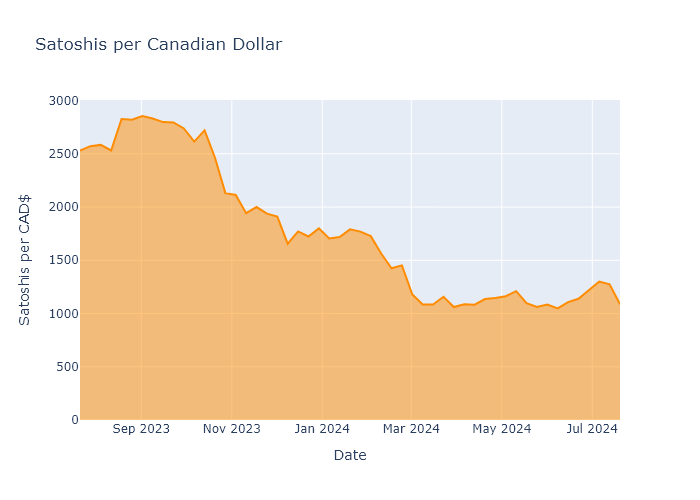
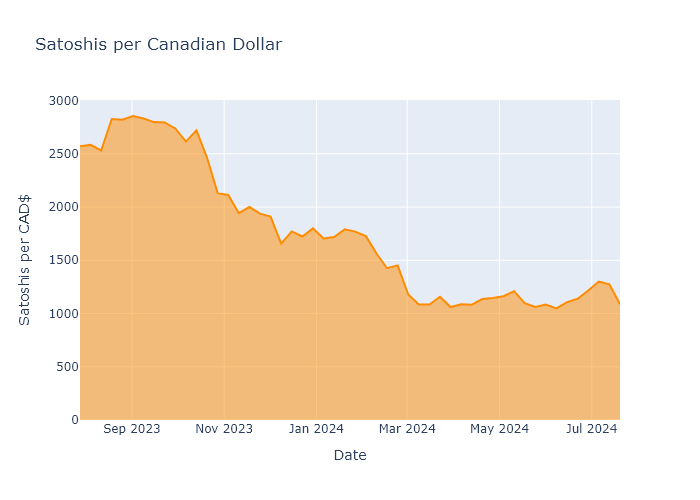
Compress notebook into .py file

diff --git a/SatsPerCAD_bot.py b/SatsPerCAD_bot.py
@@ -1,0 +1,114 @@
+import yfinance as yf, pandas as pd, plotly.express as px
+
+# get stock info
+BTCCAD = yf.Ticker("BTC-CAD")
+print(BTCCAD.info)
+
+# get historical market data
+CADBTC_df = BTCCAD.history(period="1y", interval='1h')
+CADBTC_df = CADBTC_df.drop(columns=['Dividends','Stock Splits','Volume'])
+
+#from datetime import datetime
+from dateutil import tz
+
+def convert_UTC_to_NY(UTCdatetime):
+    # METHOD 1: Hardcode zones:
+    from_zone = tz.gettz('UTC')
+    to_zone = tz.gettz('America/New_York')
+
+    # Tell the datetime object that it's in UTC time zone since datetime objects are 'naive' by default
+    utc = UTCdatetime.replace(tzinfo=from_zone)
+
+    # Convert time zone
+    central_time = utc.astimezone(to_zone)
+    return central_time
+
+CADBTC_df.index = CADBTC_df.index.map(convert_UTC_to_NY)
+
+#filter table for 4pm on fridays
+CADBTC_df['Day_of_week'] = CADBTC_df.index.strftime("%A")
+CADBTC_df = CADBTC_df[CADBTC_df['Day_of_week'] == "Friday"]
+CADBTC_df = CADBTC_df.at_time('16:00')
+CADBTC_df = CADBTC_df.drop(columns=["Day_of_week","Open","Low","High"])
+
+### Convert to Sats nominator ###
+def SatsConv(x):
+  SatsPerCAD = 1/(x/100000000)
+  return SatsPerCAD
+
+#convert prices to sats
+SATSCAD_df = CADBTC_df.map(SatsConv)
+
+#capture data from table
+
+close_sats_price = int(SATSCAD_df['Close'].loc[SATSCAD_df.index[-1]])
+print(close_sats_price)
+
+year_ago_sats_price = int(SATSCAD_df['Close'].loc[SATSCAD_df.index[1]])
+print(year_ago_sats_price)
+
+one_year_convertibility = int(((close_sats_price/year_ago_sats_price)*100)-100 / 1)
+print(one_year_convertibility)
+
+close_date = SATSCAD_df.index[-1]
+close_date = close_date.strftime("%m/%d/%Y %H:%M")
+print(close_date)
+
+# Area chart
+area_chart = px.area(SATSCAD_df['Close'], title = 'Satoshis per Canadian Dollar', color_discrete_map={"Close": "DarkOrange"})
+
+area_chart.update_xaxes(title_text = 'Date')
+area_chart.update_yaxes(title_text = 'Satoshis per CAD$')
+area_chart.update_layout(showlegend = False)
+
+#area_chart.show()
+
+area_chart.write_image("images/SatsPerCAD_weekly.png")
+
+import tweepy
+# the below import is for calculating date. Not needed for you but I needed it.
+from datetime import date
+import shutil, pathlib, os
+
+# take these from developer.twitter.com
+from auth import (
+    CONSUMER_KEY, 
+    CONSUMER_SECRET, 
+    ACCESS_KEY, 
+    ACCESS_SECRET, 
+    BEARER_TOKEN, 
+    CLIENT_ID, 
+    CLIENT_ID_SECRET
+)
+
+# Authenticate to Twitter
+auth = tweepy.OAuthHandler(CONSUMER_KEY, CONSUMER_SECRET)
+auth.set_access_token(
+    ACCESS_KEY,
+    ACCESS_SECRET,
+)
+# this is the syntax for twitter API 2.0. It uses the client credentials that we created
+newapi = tweepy.Client(
+    bearer_token=BEARER_TOKEN,
+    access_token=ACCESS_KEY,
+    access_token_secret=ACCESS_SECRET,
+    consumer_key=CONSUMER_KEY,
+    consumer_secret=CONSUMER_SECRET,
+)
+
+# Create API object using the old twitter APIv1.1
+api = tweepy.API(auth)
+
+# adding the tweet content in a multiline string. The {mydays} part is updated dynamically as the number of days from 6th Nov, 2023
+if  one_year_convertibility < 0:
+    convertibility = abs(one_year_convertibility)
+    sampletweet = f"Current price is {close_sats_price} Satoshis per Canadian Dollar.\nOver the last year CAD to SAT convertability has worsened by {convertibility}%\n\nReported on NYSE/TSX weekly close - {close_date} ET"
+else:
+    sampletweet = f"Current price is {close_sats_price} Satoshis per Canadian Dollar.\nOver the last year CAD to SAT convertability has improved by {one_year_convertibility}%\n\nReported on NYSE/TSX weekly close - {close_date} ET"
+
+# upload the media using the old api
+media = api.media_upload("images/SatsPerCAD_weekly.png")
+# create the tweet using the new api. Mention the image uploaded via the old api
+post_result = newapi.create_tweet(text=sampletweet, media_ids=[media.media_id])
+# the following line prints the response that you receive from the API. You can save it or process it in anyway u want. I am just printing it.
+print(post_result)
